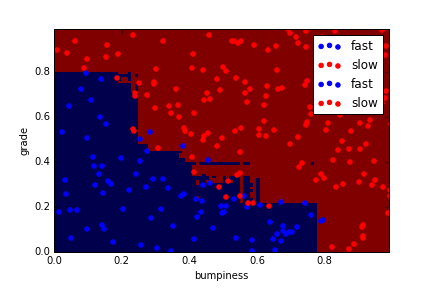
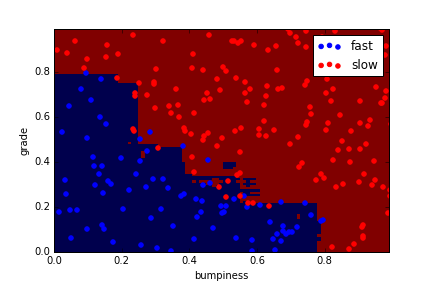
Visualize model outputs

diff --git a/choose_your_own/your_algorithm.py b/choose_your_own/your_algorithm.py
@@ -69,9 +69,25 @@ print "AdaBoost accuracy: ", accuracy_ada
 print "Random forest accuracy: ", accuracy_rdf
 
 #%%%%
-
+plt.figure(1)
 try:
     prettyPicture(clf_knn, features_test, labels_test)
     # prettyPicture(clf_rdf, features_test, labels_test)
 except NameError:
     pass
+
+
+plt.figure(2)
+try:
+    prettyPicture(clf_ada, features_test, labels_test)
+    # prettyPicture(clf_rdf, features_test, labels_test)
+except NameError:
+    pass
+
+plt.figure(3)
+try:
+    prettyPicture(clf_rdf, features_test, labels_test)
+    # prettyPicture(clf_rdf, features_test, labels_test)
+except NameError:
+    pass
+
